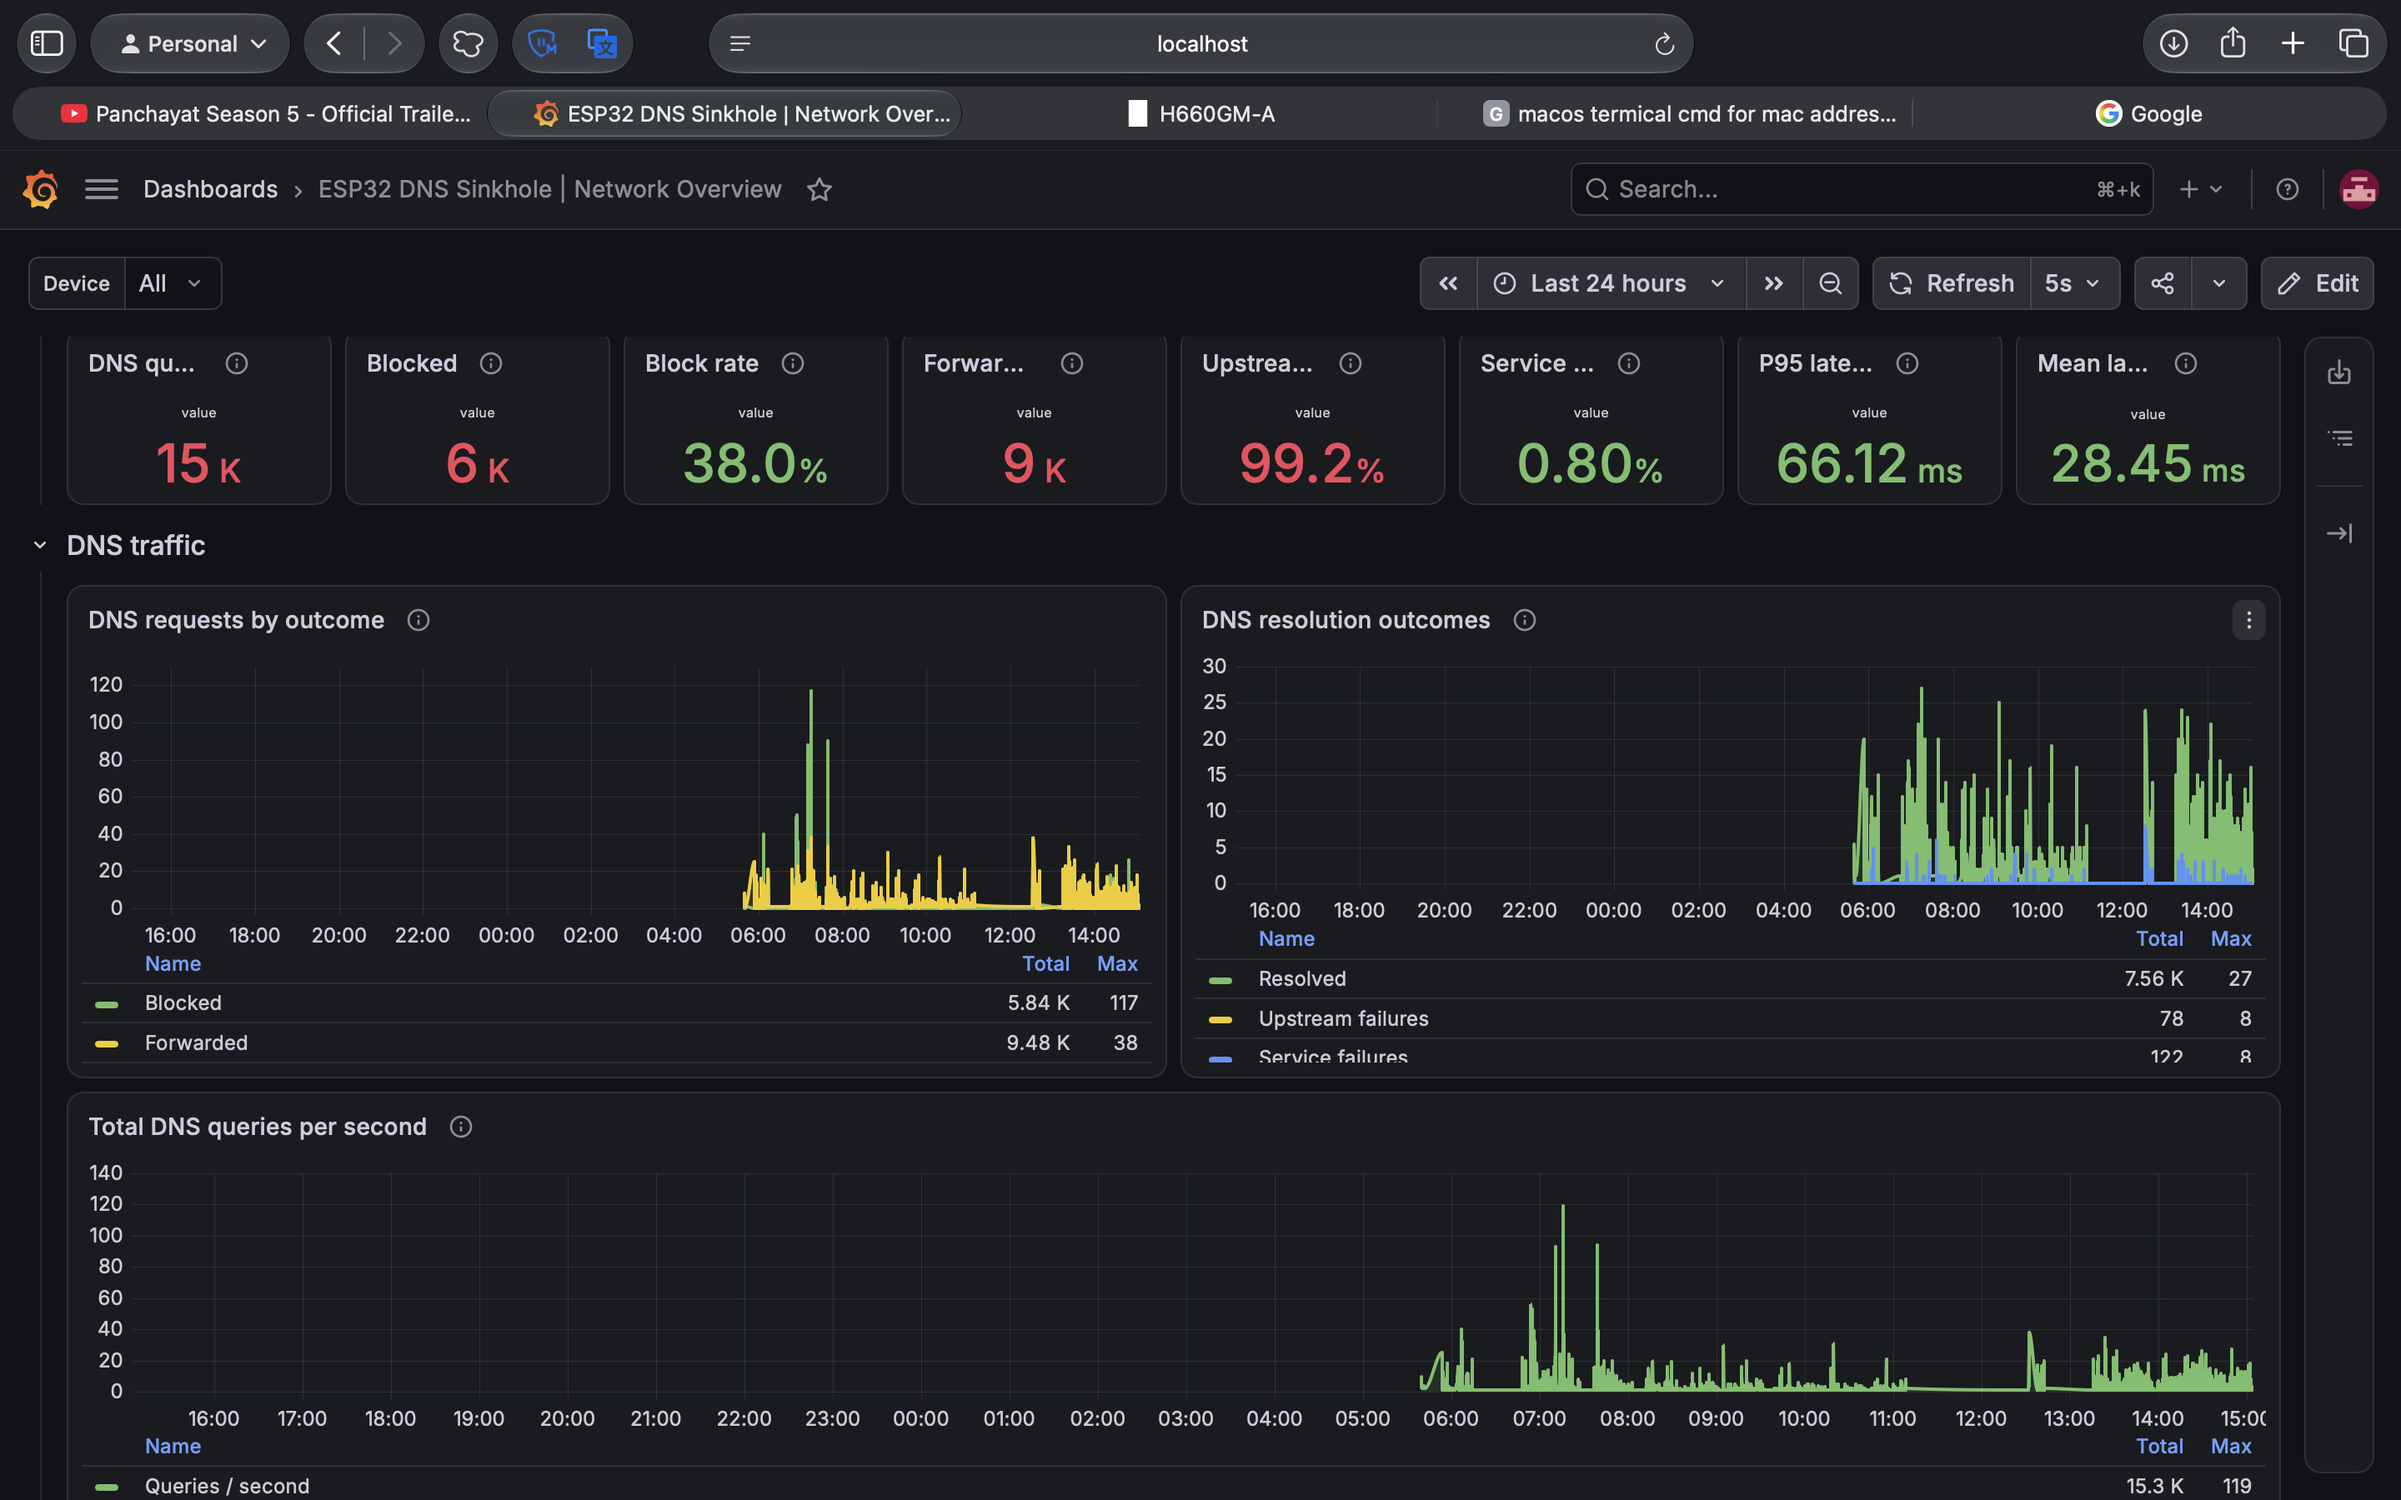
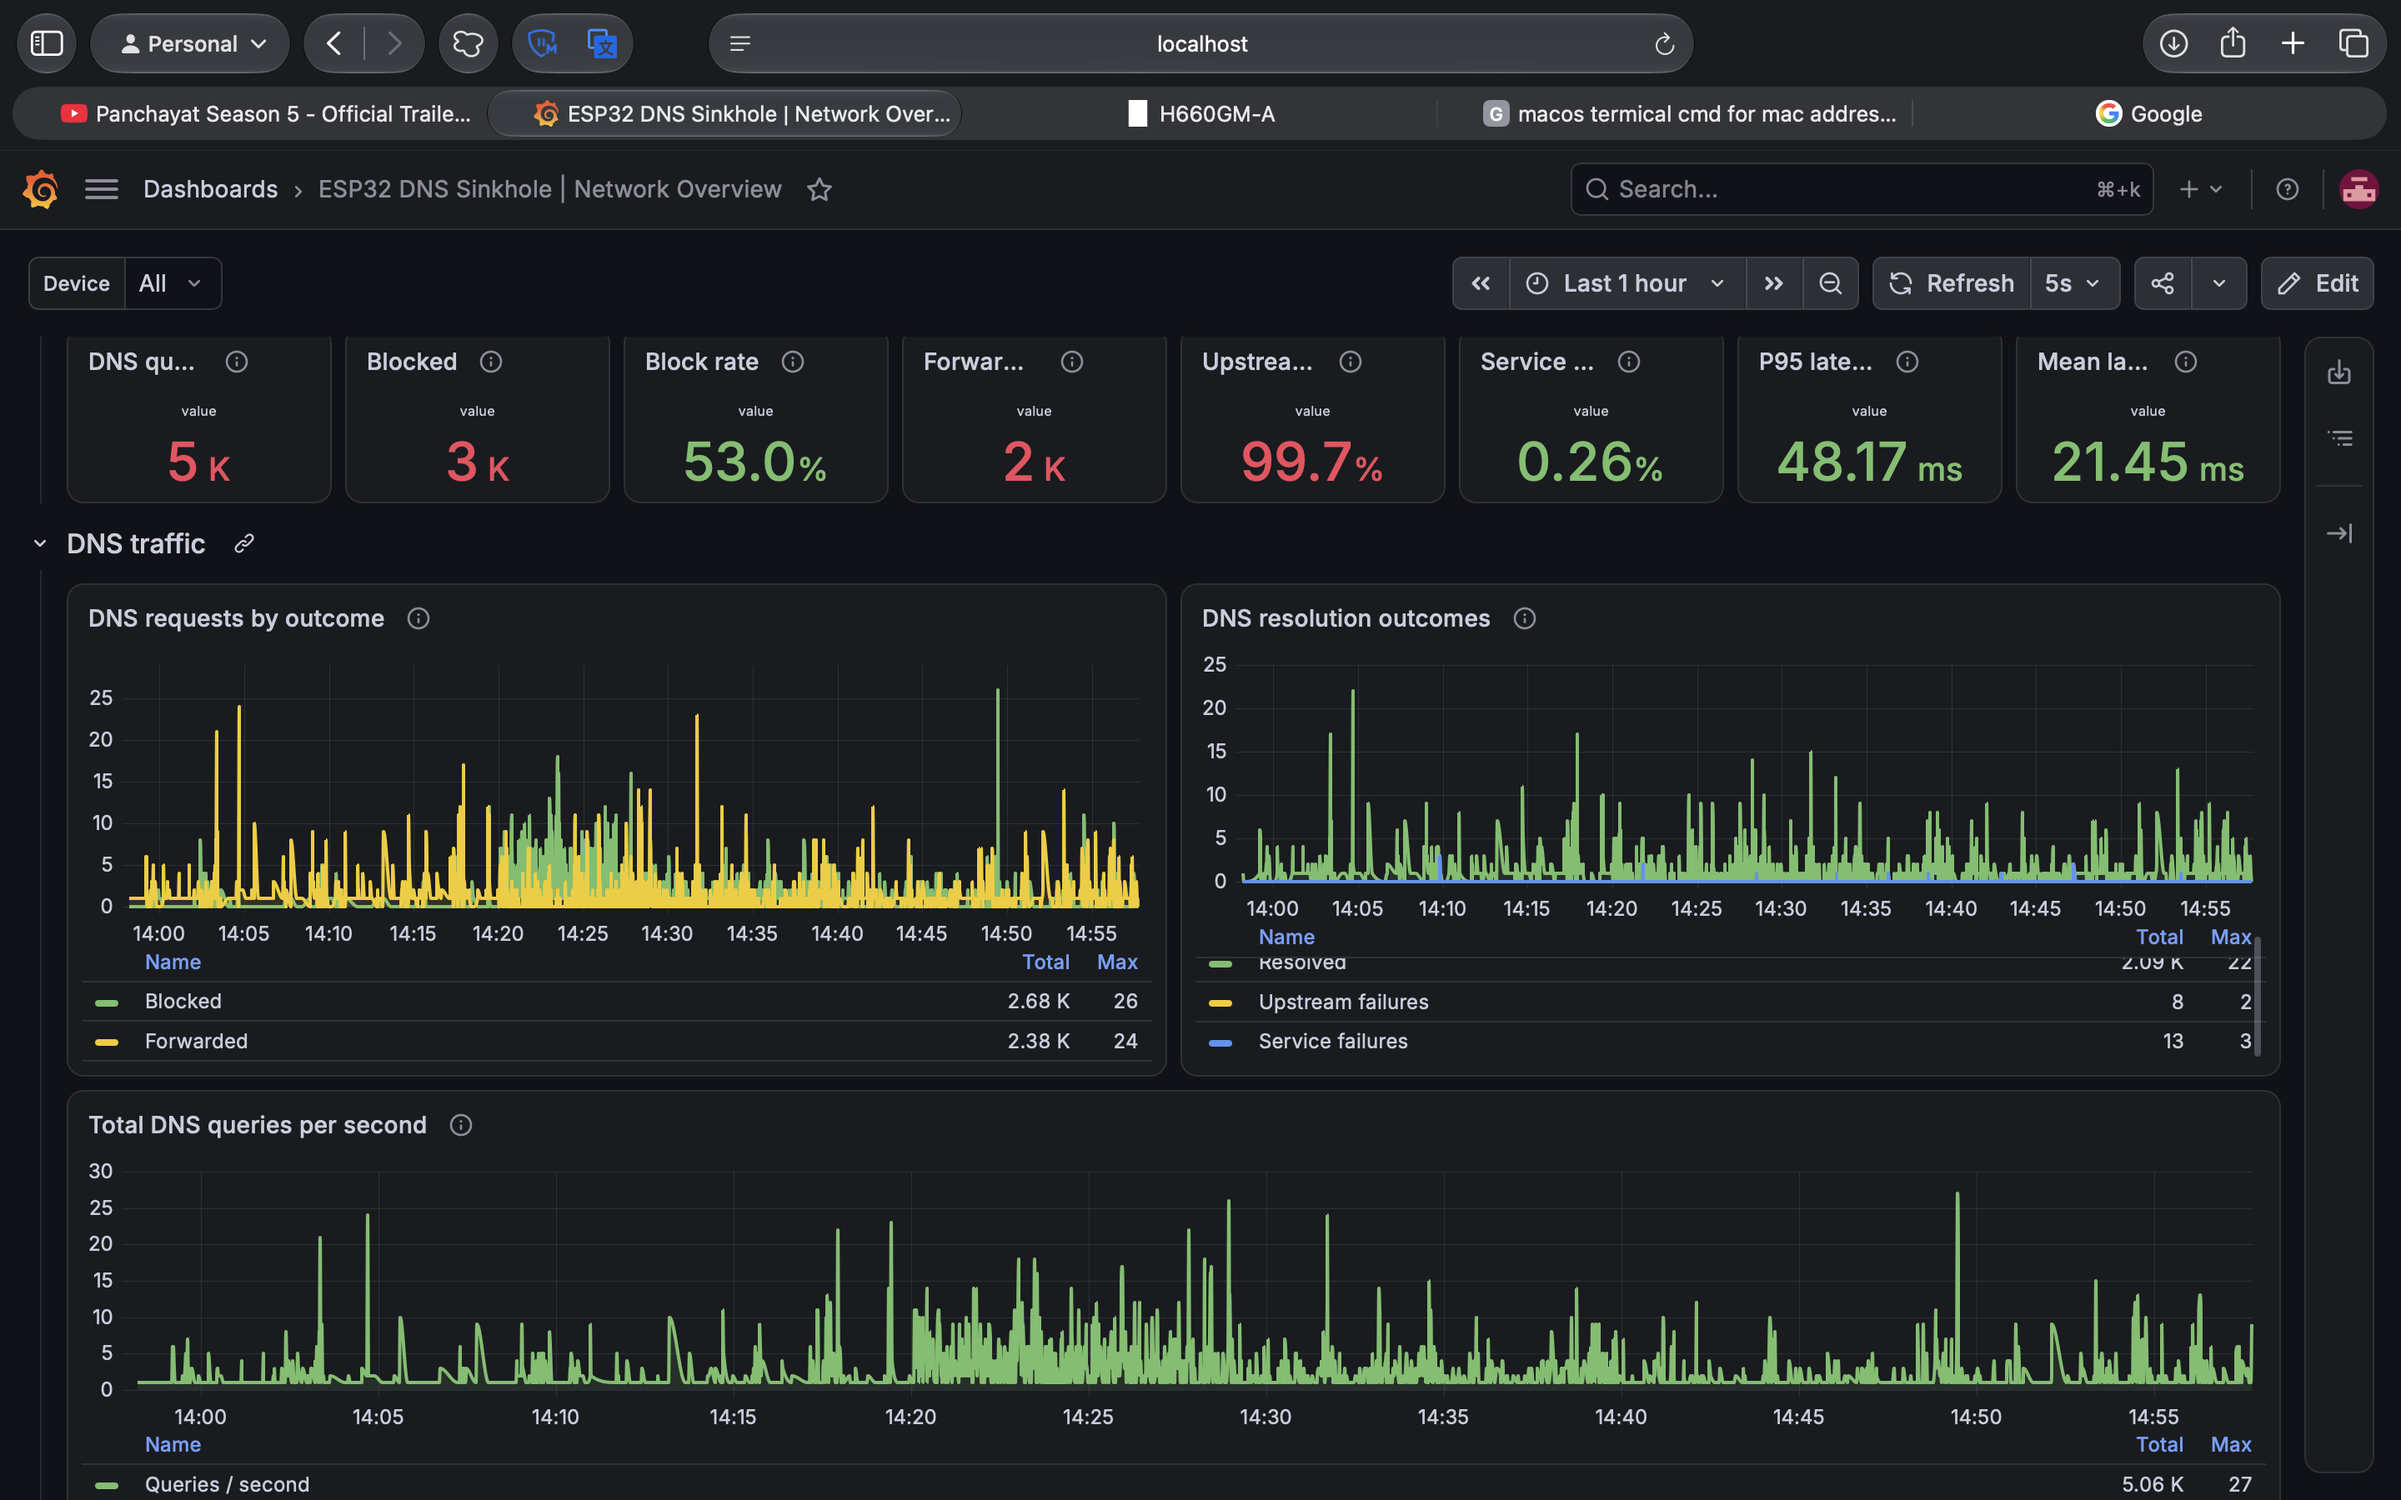
Use both Grafana trial screenshots

diff --git a/README.md b/README.md
@@ -12,9 +12,11 @@ An ESP32-based DNS sinkhole with a locally stored compact blocklist, asynchronou
 
 ## Trial dashboard
 
-![Grafana dashboard from the first main-router trial](docs/screenshots/grafana-network-overview.png)
+![Grafana DNS traffic and outcome metrics](docs/screenshots/grafana-network-overview.png)
 
-The image is a real trial screenshot and includes private LAN client addresses and DNS telemetry. Keep this repository private unless you replace it with a sanitized capture.
+![Grafana latency, client, and blocked-domain details](docs/screenshots/grafana-latency-and-clients.png)
+
+These real trial screenshots include local client addresses and queried-domain telemetry. Keep this repository private unless you replace them with sanitized captures.
 
 The sanitized Serial Monitor session excerpt is in [`docs/serial-monitor-session.txt`](docs/serial-monitor-session.txt). A Serial Monitor screenshot still needs to be added; the current desktop capture interface did not produce an image file.
 

diff --git a/docs/screenshots/README.md b/docs/screenshots/README.md
@@ -1,5 +1,5 @@
 # Project screenshots
 
-`grafana-network-overview.png` is a user-provided Grafana capture from the first main-router trial on 2026-11-25. It demonstrates the project dashboard and real traffic metrics. The repository is private because the image includes local client addresses and queried-domain telemetry.
+`grafana-network-overview.png` and `grafana-latency-and-clients.png` are the two user-provided Grafana captures from the main-router trial on 2026-11-25. Together they show DNS traffic, outcome metrics, latency, client summaries, and blocked domains. They include local client addresses and queried-domain telemetry, so the repository is private.
 
 The sanitized Serial Monitor text excerpt is in `../serial-monitor-session.txt`. A Serial Monitor image is not included yet because the desktop capture interface did not save one. Before adding a Serial Monitor screenshot, make sure it does not expose Wi-Fi credentials, OTA passwords, API tokens, private keys, or client/domain logs.
